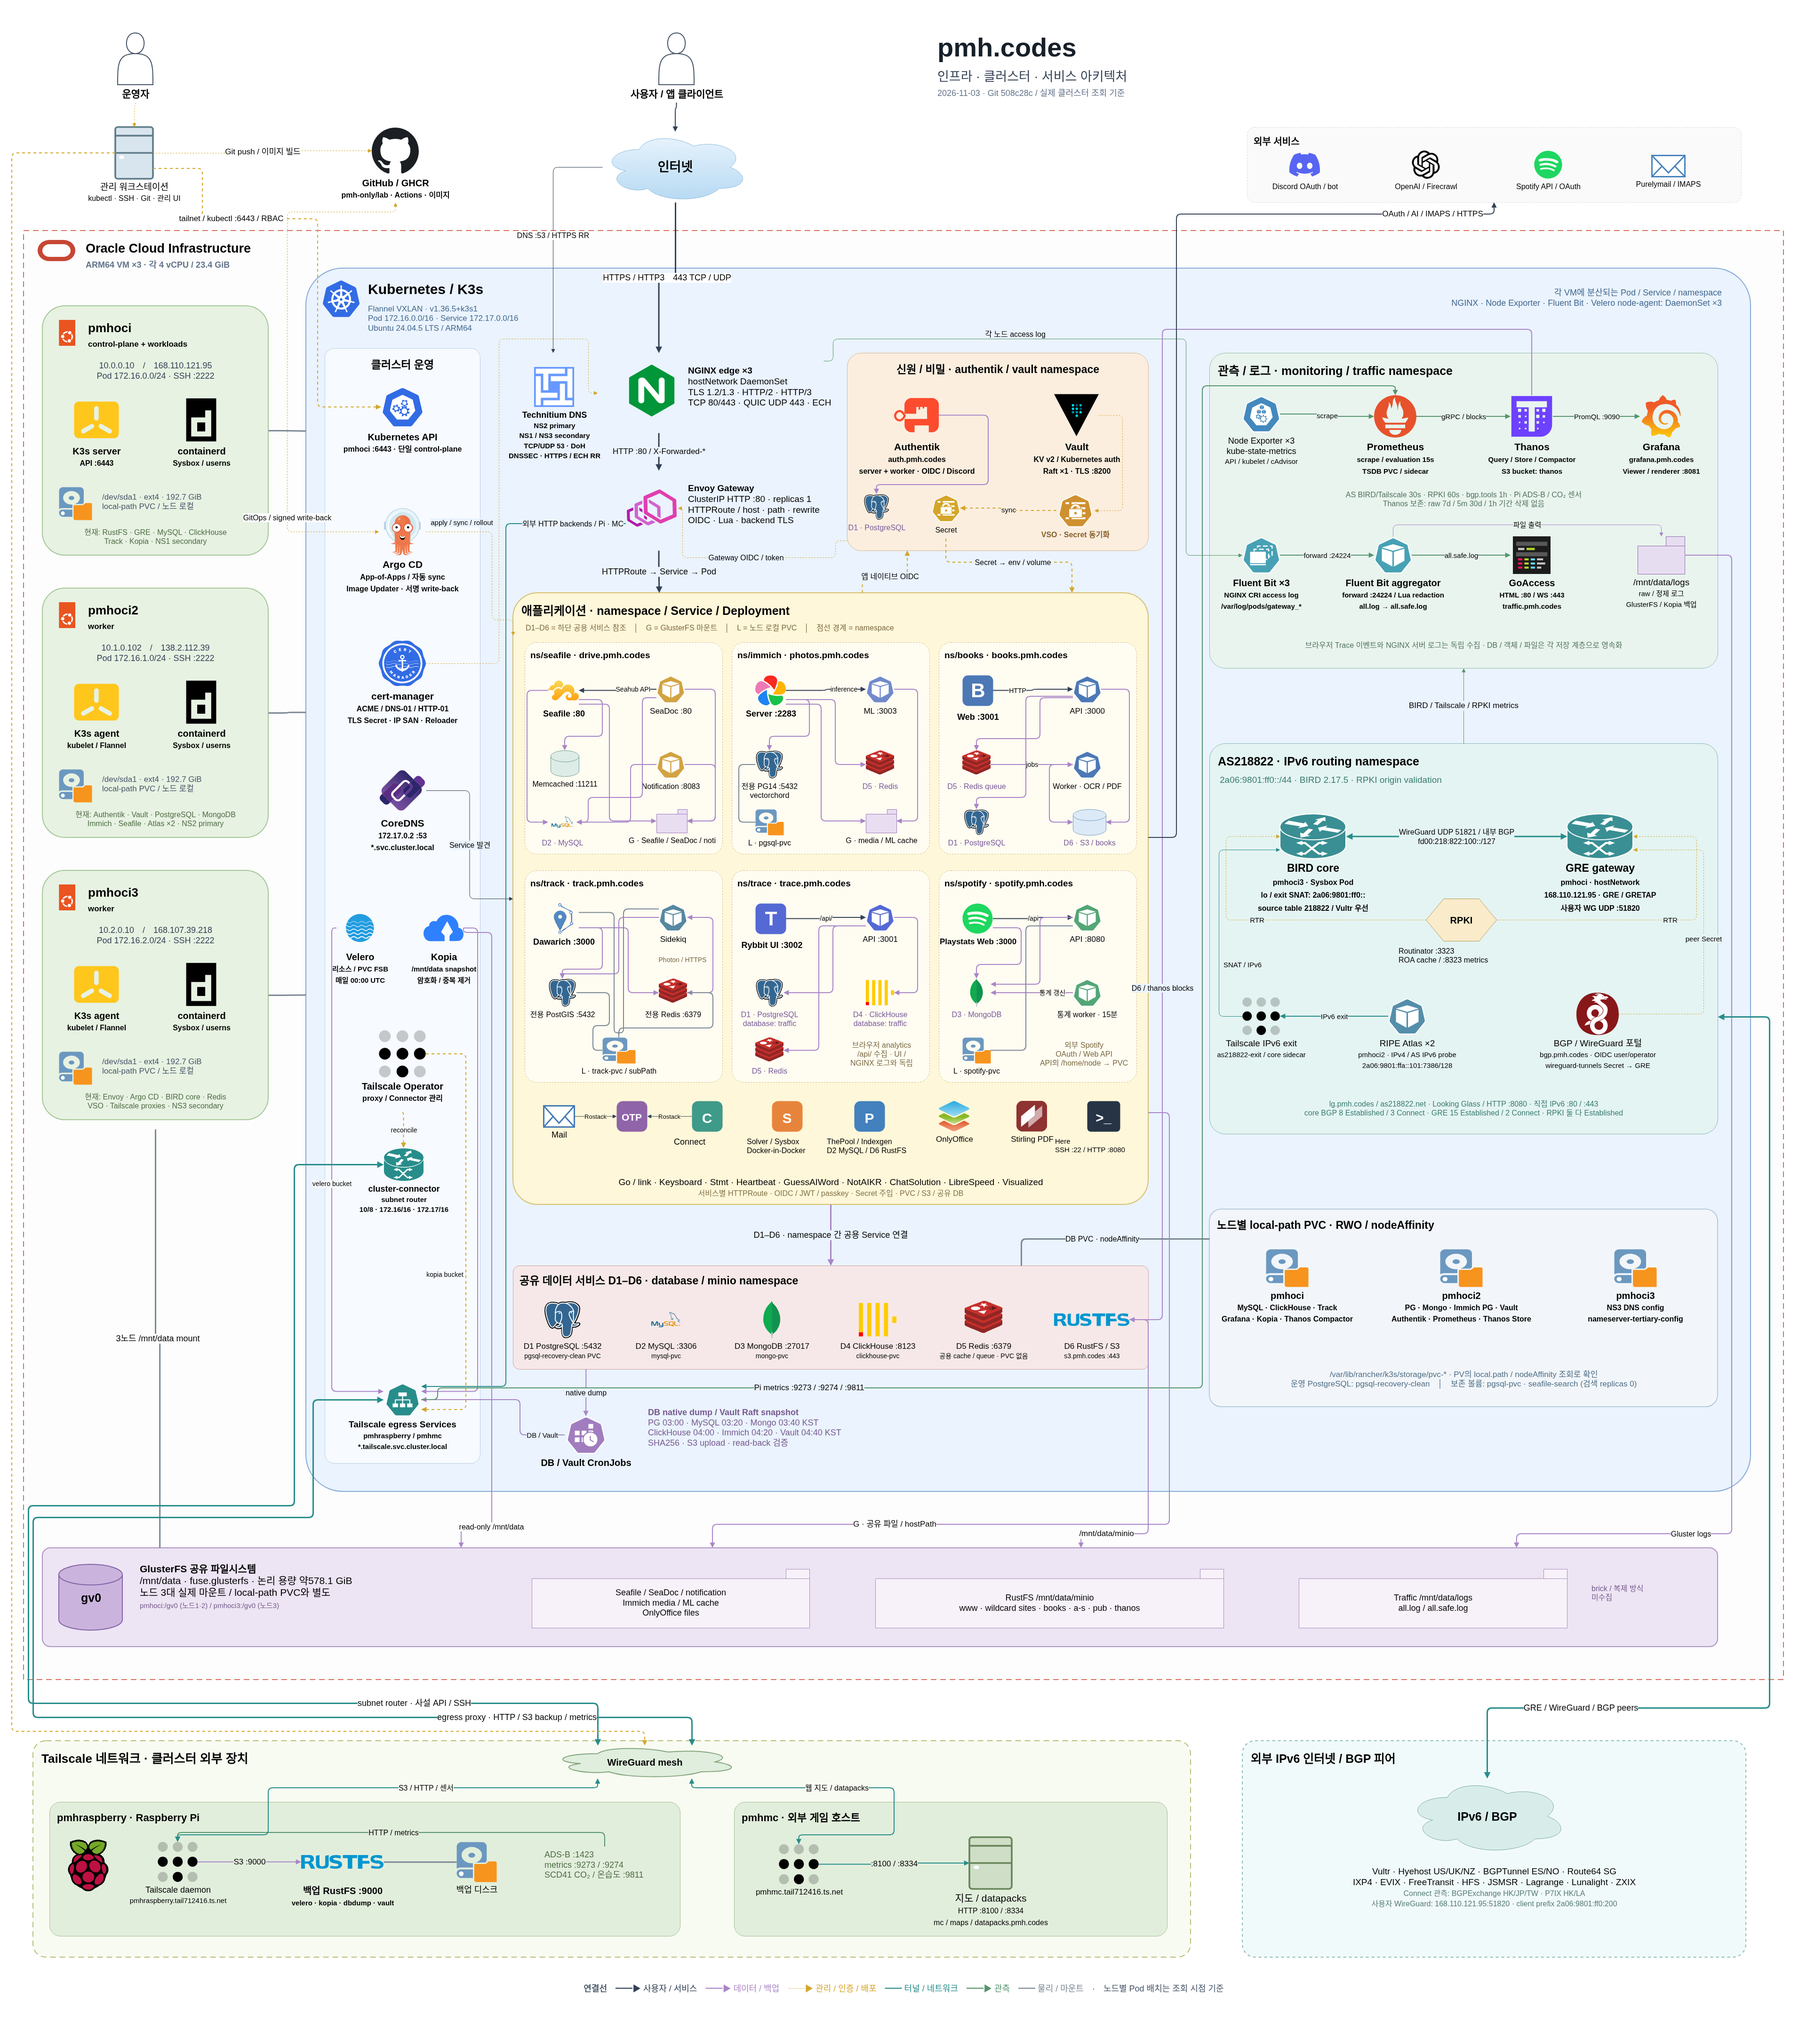
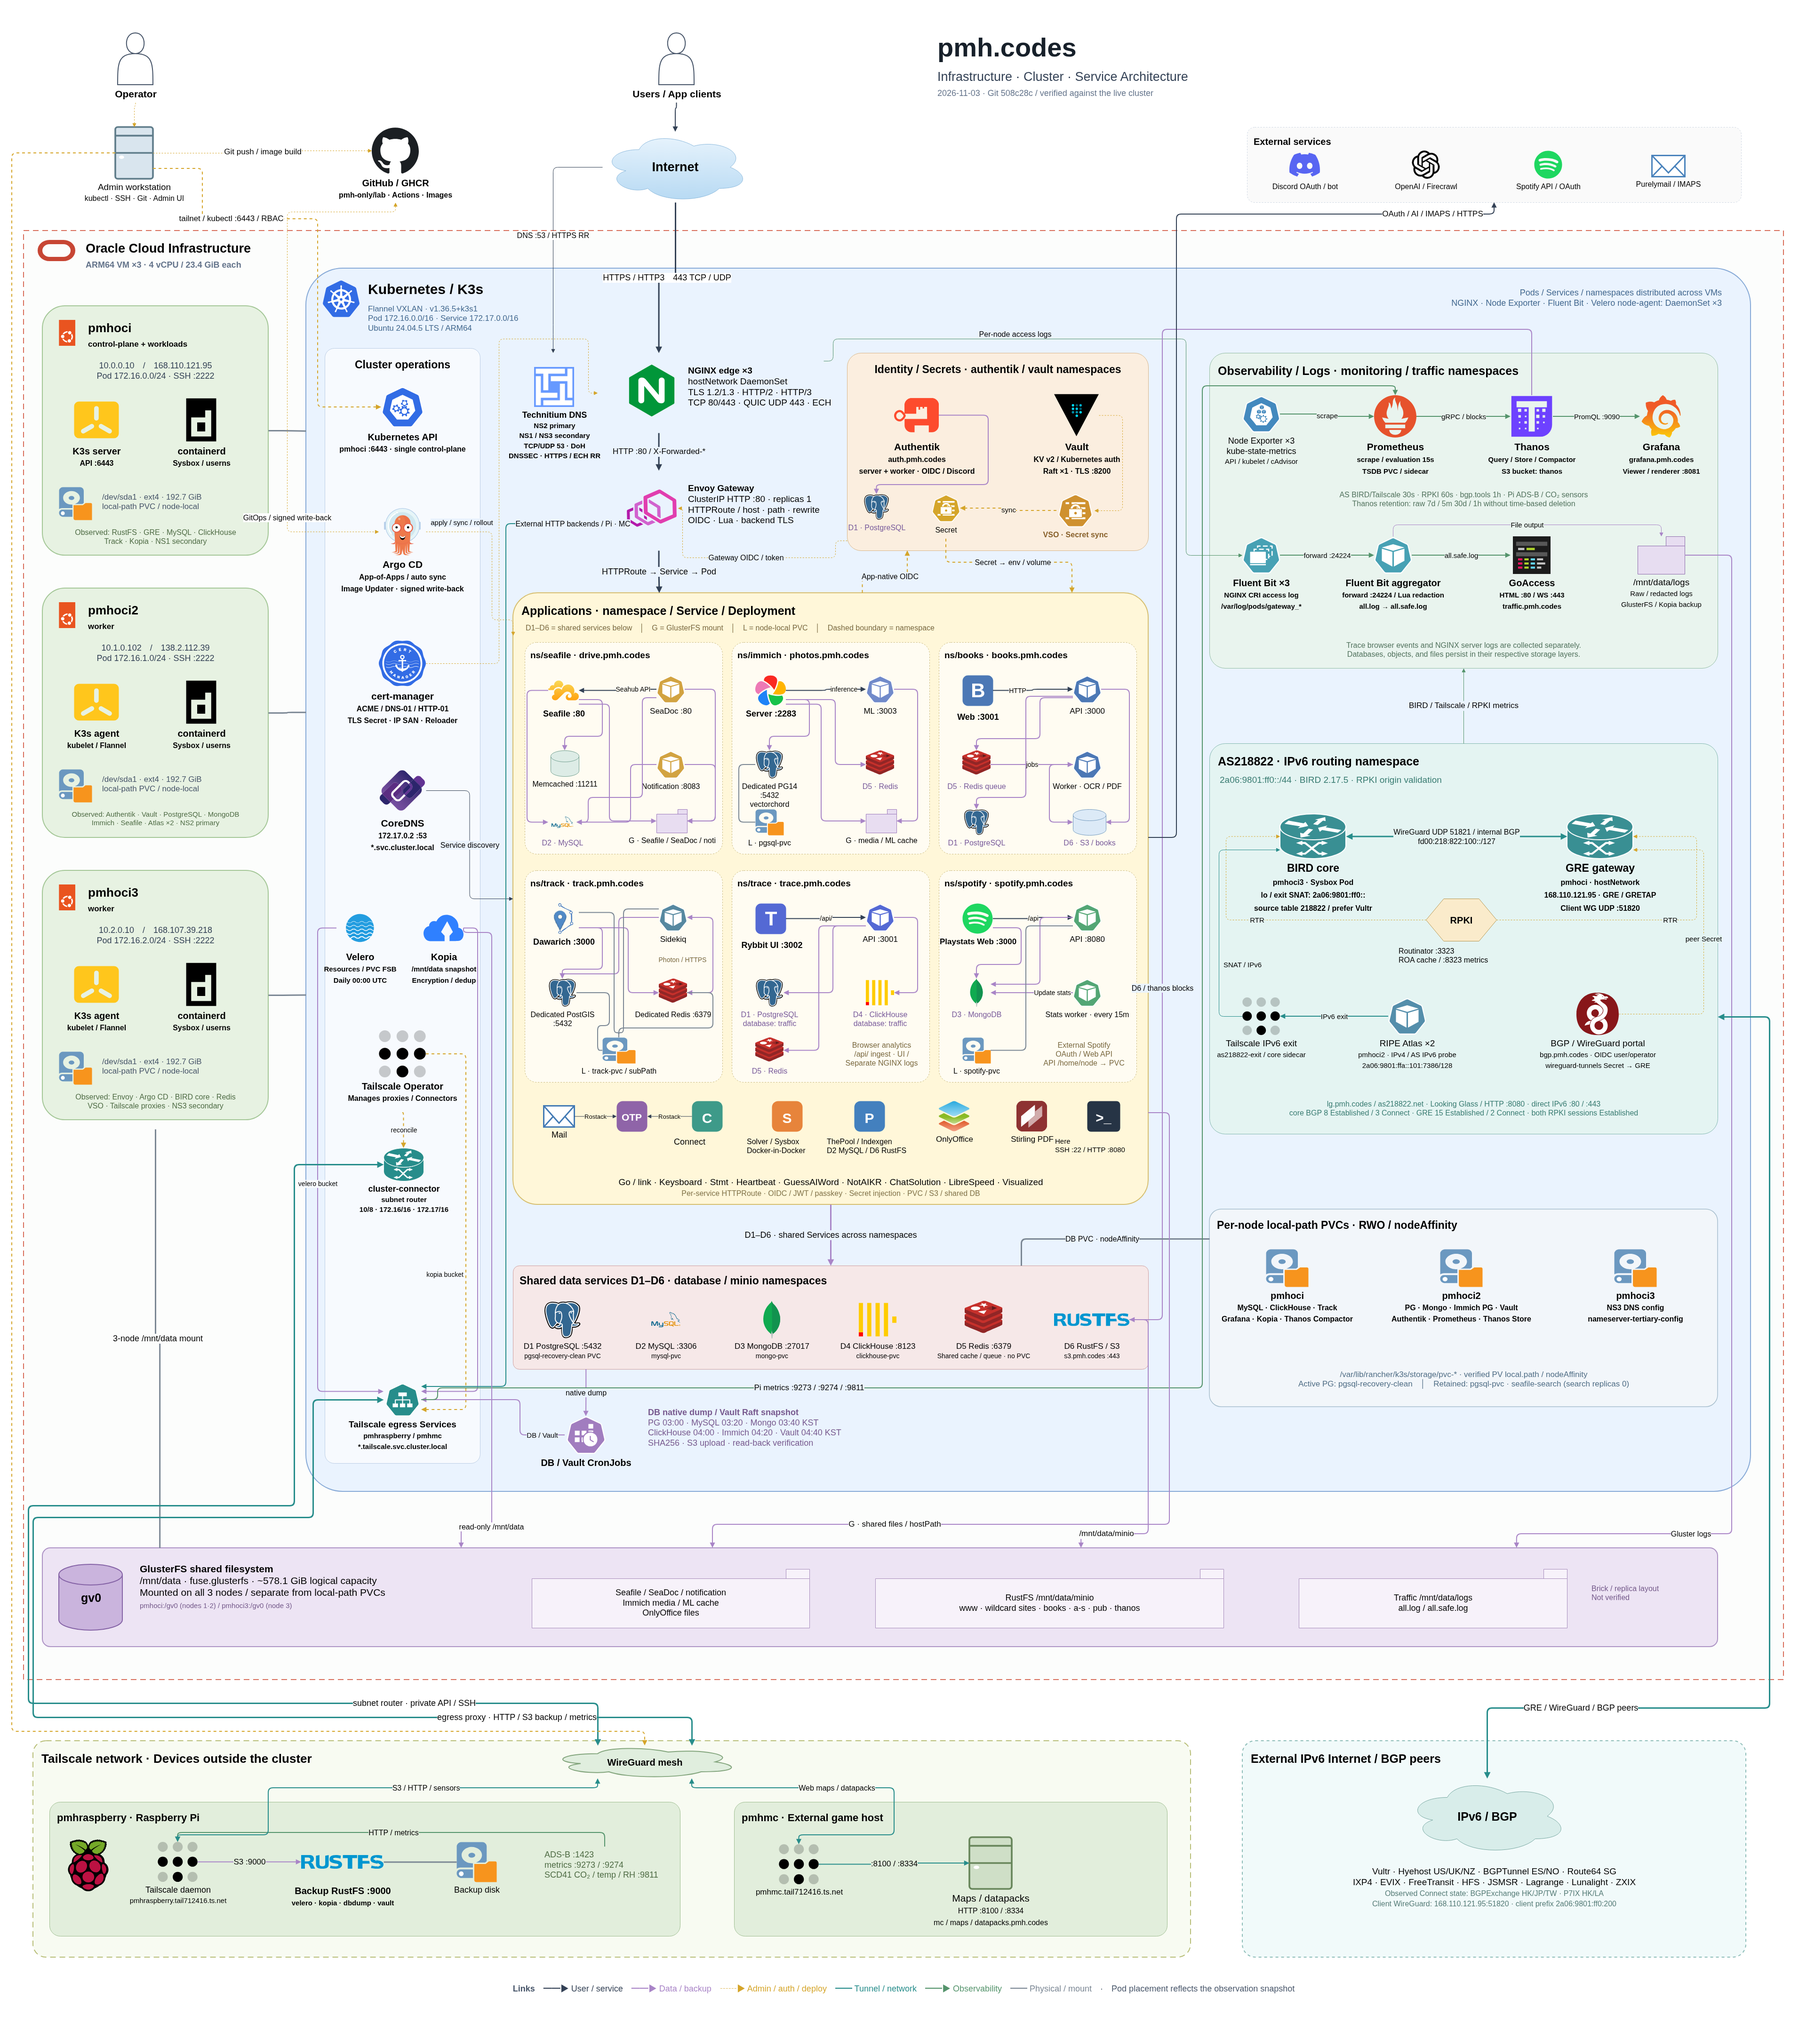
docs(architecture): publish English diagram and Deep Zoom tiles

diff --git a/docs/architecture/deepzoom.md b/docs/architecture/deepzoom.md
@@ -1,21 +1,22 @@
-# 고해상도 아키텍처 타일
+# High-resolution architecture tiles
 
-- **뷰어**: https://arch.pmh.codes/ — 기존 OpenSeadragon **4.1.0**, HTML·라우팅 변경 없음.
-- **고해상도 PNG**: [저장소 원본](./lab-architecture-hires.png) · [배포된 이미지](https://arch.pmh.codes/lab-architecture-hires.png).
-- **DZI**: https://arch.pmh.codes/diagram.dzi — 기존 뷰어의 `tileSources` 경로를 유지한다.
-- **타일**: `s3://arch/diagram-6fd4e8df3d4163b8_files/` — 512px 무손실 PNG, overlap 1px, 16단계·1,385개.
-- **해상도**: 15,360 × 17,200. draw.io XML을 4배 배율로 다시 렌더링했으며 기존 PNG의 단순 확대가 아니다.
-- **스냅샷**: 2026-11-03. 실시간 상태가 아니다.
+- **Viewer**: https://arch.pmh.codes/ — existing OpenSeadragon **4.1.0**; HTML and routing unchanged.
+- **Language**: all diagram labels, annotations, and connection labels are in English.
+- **High-resolution PNG**: [repository source](./lab-architecture-hires.png) · [deployed image](https://arch.pmh.codes/lab-architecture-hires.png).
+- **DZI**: https://arch.pmh.codes/diagram.dzi — preserves the existing viewer's `tileSources` URL.
+- **Tiles**: `s3://arch/diagram-be411d78eaf2ec0e_files/` — lossless 512px PNG, 1px overlap, 16 levels, 1,385 tiles.
+- **Resolution**: 15,360 × 17,200. Re-rendered from the draw.io XML at 4× scale, not upscaled from the previous PNG.
+- **Infrastructure snapshot**: 2026-11-03, not live status. English edition published 2026-11-04.
 
-## 생성·배포 기록
+## Rendering and deployment
 
-브라우저의 초대형 캡처 하단 잘림을 피하기 위해 3840×4300 화면을 원본 좌표로 이동하며 4×4개 렌더링하고 무손실 합성했다. Sharp 0.35.5로 `png({compressionLevel:9}).tile({size:512,overlap:1,layout:'dz',depth:'onepixel',skipBlanks:-1})`을 사용했다.
+To avoid browser truncation of oversized screenshots, the diagram was rendered as a 4×4 grid of 3840×4300 sections using coordinate translation, then composited losslessly. Tiles were generated with Sharp 0.35.5 using `png({compressionLevel:9}).tile({size:512,overlap:1,layout:'dz',depth:'onepixel',skipBlanks:-1})`.
 
-모든 단계의 타일 수·가장자리 크기, 최고 배율 원본 픽셀 일치, 렌더링 16구역의 콘텐츠 존재를 검사했다. S3 업로드 후 모든 파일의 크기·MD5와 공개 타일 샘플을 대조하고, 마지막에 `diagram.dzi`의 `Url`만 새 타일 디렉터리로 전환했다. 뷰어 HTML은 변경 전후 SHA256이 동일하다. 실제 사이트에서 전체 도면과 확대 로딩을 확인했다.
+Checks cover tile counts and edge dimensions at every level, pixel identity at full resolution, content in all 16 rendered sections, and label overlaps/clipping. Uploaded object sizes and MD5 hashes are checked against local files, along with public tile samples. Only after verification is `diagram.dzi` switched to the new tile directory. The viewer HTML remains byte-for-byte unchanged. The public viewer is checked at overview and detail zoom levels.
 
-기존 `diagram_files/` JPG 타일은 보존했다. 새 타일은 1년 캐시하며 `diagram.dzi`는 `no-cache,max-age=0,must-revalidate`다. 갱신 시 새 버전 경로로 타일을 먼저 모두 올리고 검증한 뒤 DZI를 전환한다. 새 컨테이너·CI·Kubernetes 앱은 필요하지 않다.
+Previous JPG and Korean PNG tile sets are retained. Versioned tiles use a one-year cache lifetime; `diagram.dzi` uses `no-cache,max-age=0,must-revalidate`. Future updates should upload and verify a complete versioned tile set before switching the DZI. No new container, CI workflow, or Kubernetes application is required.
 
-| 파일 | SHA256 |
+| File | SHA256 |
 | --- | --- |
[4 lines of base64/hex data omitted]
